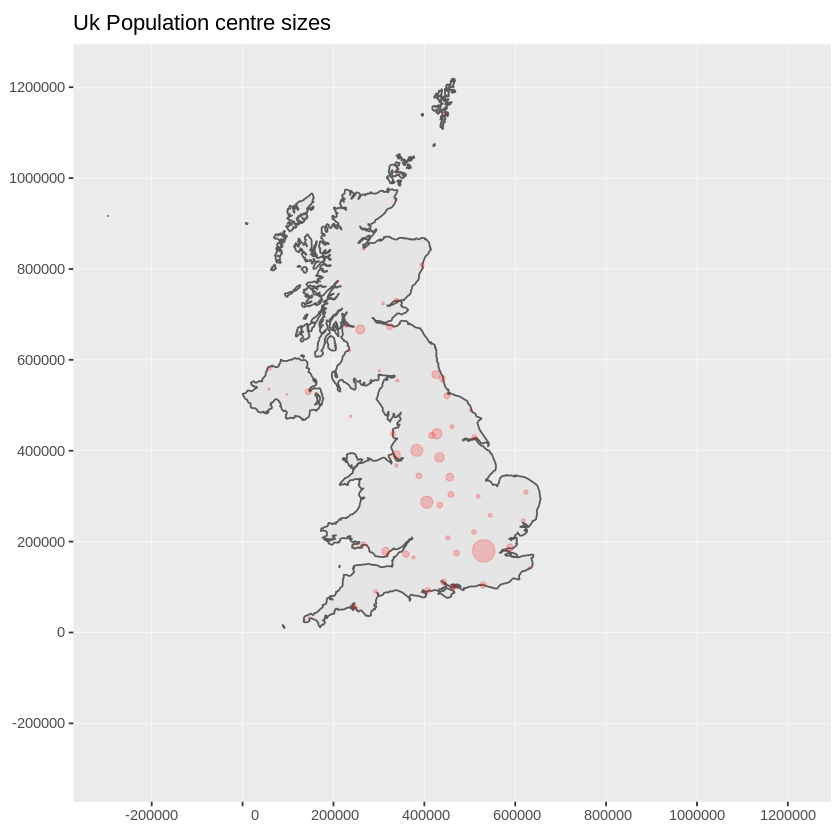
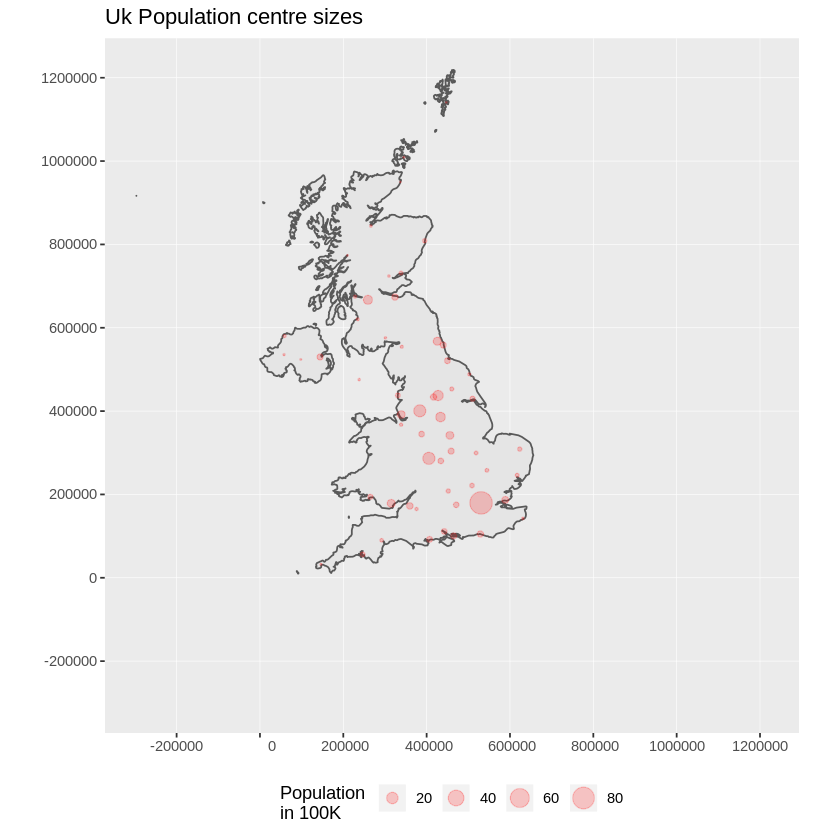
Fix legend issue

diff --git a/doc/quickstart/R_quickstart.rst b/doc/quickstart/R_quickstart.rst
@@ -241,14 +241,15 @@ colour to red and the plotting character to a solid blob:
 	> ggplot() + 
     > 	geom_sf(data = ukos) + 								# add UK shape to the map
     > 	geom_sf(data = ukpop, 								# add the Populated places
-    > 	        aes(size = sqrt(ukpop$POP_MAX/1000000)), 	# fix size of points
+    > 	        aes(size = ukpop$POP_MAX/100000), 			# fix size of points (by area)
     > 	        colour = 'red', alpha = 1/5) + 				# set points colour and transparency
     > 	coord_sf(crs = 27700, datum= sf::st_crs(27700), 	# set a bounding box
     > 	         xlim = st_bbox(ukos[c(1,3)]),				# for the map	
     > 	         ylim = st_bbox(ukos[c(2,4)])
     > 	        ) +
     > 	ggtitle('Uk Population centre sizes') + 			# set the map title
-    > 	theme(legend.position = 'none') +					# hide legend
+    > 	    theme(legend.position = 'bottom') +				# Legend position
+    >		scale_size_area(name = 'Population \nin 100K')	# 0 value means 0 area + legend title 
  
 
 and our final image appears:
